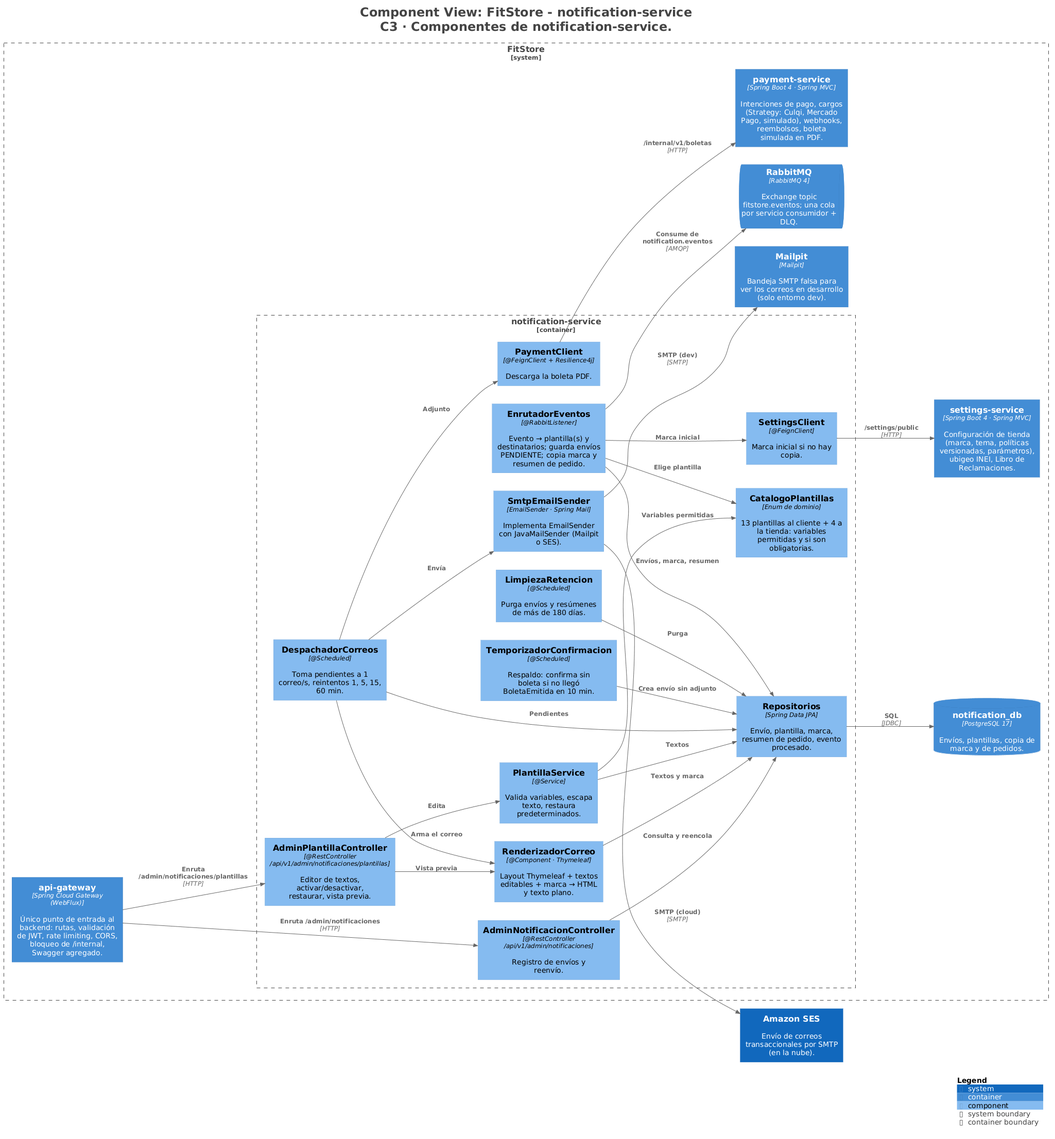
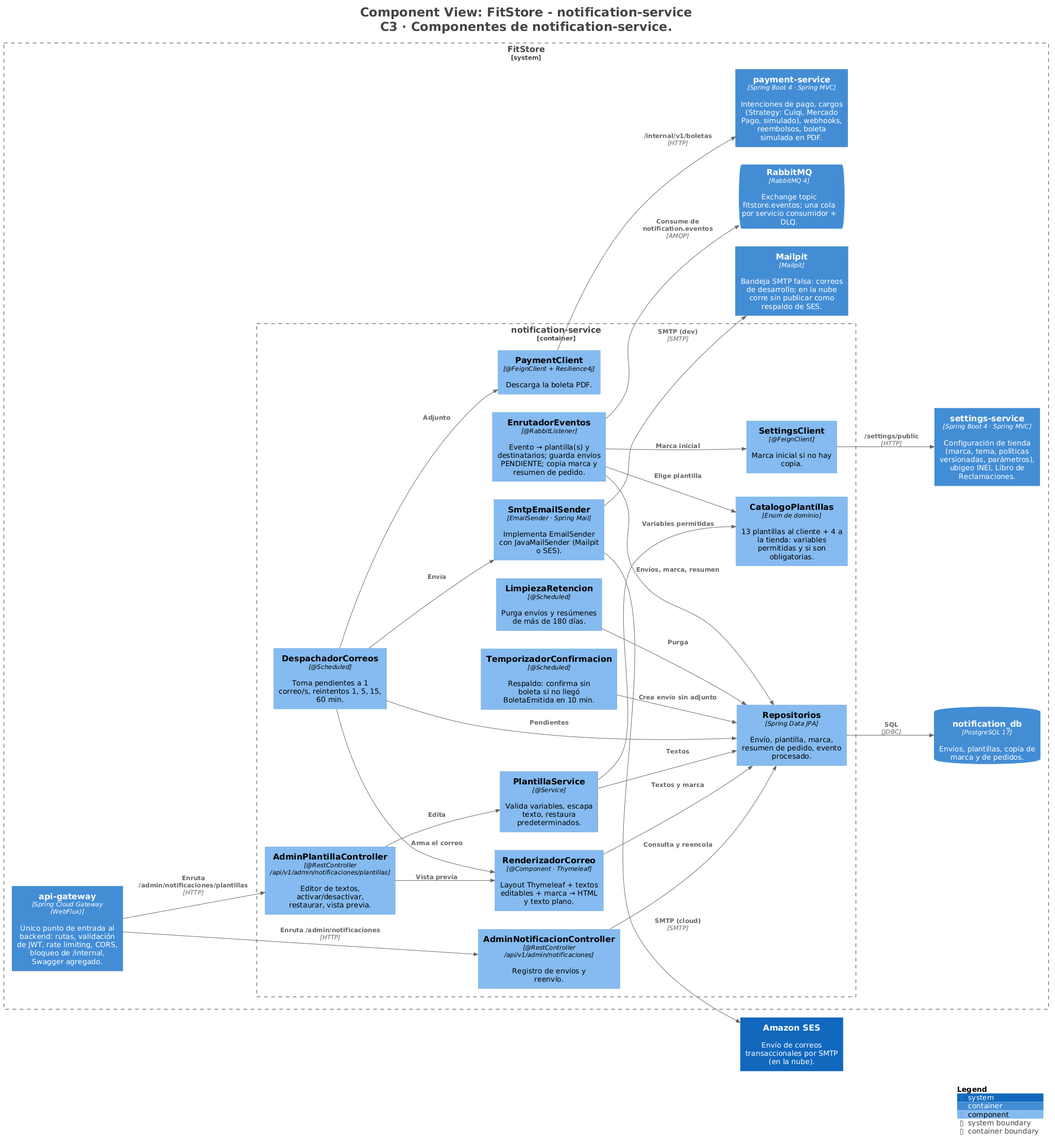
docs: revisión de coherencia (#9)
* docs: revisión de coherencia entre todos los documentos aprobados

- Eventos: PedidoExpirado sin notification (order v8, macro v23, notification v10, SPEC-7 v4); PagoReembolsado también lo consume order (payment v8).
- Menú del backoffice completo y contadores por funcionalidad (SPEC-0b v6 R3, CA-0b-24; SPEC-5 v8).
- Catalog v7: rangos de la configuración de inventario; SPEC-2 v7 sin restos de la configuración en P-2-07.
- Infraestructura: duckdns y Mailpit como respaldo de SES en la nube (micro v5, SPEC-8 v3, ADR-014, C4 de despliegue).
- RF-BO-02 citado en la 0b; RF-BO-03 como alcance futuro (SPEC-4 v8, macro).
- SPEC-6 v5 (orden de rutas), README (14 pantallas clave), c4-sistema v5, bocetos P-0b-02 y P-4-06.

* docs: versión v6 del micro de infraestructura en la revisión de coherencia

diff --git a/docs/specs/img/src/P-4-06-detalle-pedido.html b/docs/specs/img/src/P-4-06-detalle-pedido.html
@@ -12,10 +12,10 @@
 <div class="card col"><b>Historial</b><div class="s">13/10 08:40 · → PENDIENTE_PAGO · Cliente</div><div class="s">13/10 08:41 · Pago rechazado: fondos insuficientes · Sistema</div><div class="s">13/10 08:44 · → PAGADO · Sistema</div></div></div>
 <div class="col" style="width:420px"><div class="card col"><b>Cliente y destinatario</b><span class="s">Luis Rojas · luis@correo.com<br>DNI 44556677 · 987654321<br><u>Ver ficha del cliente</u></span></div>
 <div class="card col"><b>Entrega</b><span class="s">Av. Aviación 1450 · San Borja, Lima, Lima<br>Ref.: edificio azul · 1–2 días hábiles</span><span class="s">Notas: "Tocar el timbre 2 veces"</span></div>
-<div class="card col"><b>Pago</b><span class="s">Culqi · tarjeta · S/ 129.80 · <u>Boleta B001-000045</u></span></div>
+<div class="card col"><b>Pago</b><span class="s">Culqi · tarjeta · S/ 129.80 · <u>Boleta B001-00000045</u></span></div>
 <div class="card col" style="border-style:dashed"><b>Registrar reembolso (diálogo · solo ADMIN · pedido ENTREGADO dentro del plazo)</b>
 <div class="row s"><span>☑</span><span class="sp">Legging Pro Compresión · M · Negro</span><span>cant. [1] de 2</span><span>S/ 59.90</span></div>
 <div class="row"><div class="f sp">Monto: S/ 59.90 (propuesto, editable)</div><div class="f sp">Motivo: Prenda defectuosa ▾</div></div><div class="f">Nota (opcional)</div>
 <div class="row"><span class="s">Puedes devolver hasta S/ 129.80 · plazo hasta 12/11 · el stock no se reingresa solo</span><span class="sp"></span><div class="btn p">Registrar reembolso</div></div></div>
-<div class="card col" style="border-style:dashed"><b>Diálogos</b><span class="s">Comentario opcional al avanzar · Cancelar: motivo obligatorio (300) · Recogido: ☐ Verifiqué el DNI del destinatario</span><div class="err">409: "El pedido cambió; recarga la página"</div></div></div></div></div></div>
+<div class="card col" style="border-style:dashed"><b>Diálogos</b><span class="s">Comentario opcional al avanzar · Cancelar: motivo obligatorio (300) · Recogido: ☐ Verifiqué el DNI del destinatario · No recogido: motivo obligatorio (→ DEVUELTO)</span><div class="err">409: "El pedido cambió; recarga la página"</div></div></div></div></div></div>
 </body></html>

diff --git a/docs/specs/img/src/P-0b-02-backoffice.html b/docs/specs/img/src/P-0b-02-backoffice.html
@@ -4,14 +4,14 @@
  <div class="col pad g" style="width:240px">
   <div class="box b" style="height:48px;background:#fff">LOGO · Tienda</div>
   <div class="p pad" style="border-radius:6px">▣ Dashboard</div>
-  <div>🧾 Pedidos</div><div>🚚 Entregas</div><div>👷 Repartidores</div>
-  <div>👕 Catálogo</div><div>📦 Inventario</div>
-  <div>💳 Pagos <span class="tag">ADMIN</span></div>
+  <div>🧾 Pedidos</div><div>🚚 Entregas</div><div class="s" style="padding-left:22px">Lista · Del día</div><div>👷 Repartidores</div>
+  <div>👕 Catálogo</div><div class="s" style="padding-left:22px">Productos · Categorías · Tallas y colores · Descuentos · Carga masiva</div><div>📦 Inventario</div>
+  <div>💳 Pagos <span class="tag">ADMIN</span></div><div class="s" style="padding-left:22px">Pagos · Reembolsos <span style="background:#b91c1c;color:#fff;border-radius:9px;padding:0 6px">1</span></div>
   <div>🏷 Tarifas y agencias <span class="tag">ADMIN</span></div>
   <div>👥 Clientes</div><div>🛡 Staff <span class="tag">ADMIN</span></div>
-  <div>✉ Notificaciones <span class="tag">ADMIN</span></div>
+  <div>✉ Notificaciones <span class="tag">ADMIN</span></div><div class="s" style="padding-left:22px">Registro · Plantillas</div>
   <div>📕 Reclamos</div>
-  <div>⚙ Configuración de tienda <span class="tag">ADMIN</span></div>
+  <div>⚙ Configuración de tienda <span class="tag">ADMIN</span></div><div class="s" style="padding-left:22px">Tienda · Políticas</div>
   <div class="sp"></div><div class="s">Menú según rol (OPERADOR no ve lo marcado ADMIN)</div>
  </div>
  <div class="col sp">

diff --git a/docs/specs/SPEC-0b-fundaciones-frontend.md b/docs/specs/SPEC-0b-fundaciones-frontend.md
@@ -1,10 +1,11 @@
 # SPEC-0b — Fundaciones del frontend
 
-> Versión: **v5 (aprobado)** — 2026-10-19 · Estados: ✅ decidido · 🟡 propuesto · ❓ abierto
+> Versión: **v6 (aprobado)** — 2026-10-19 · Estados: ✅ decidido · 🟡 propuesto · ❓ abierto
 > **Dueña de:** workspace Angular (`frontend/`), librería `shared`, *shells* (layouts) de storefront y backoffice, rutas y menús generales, tema white-label, carpetas `ui/` de cada app, job de frontend en CI.
 > **Depende de:** 0a (gateway y CI), la etapa de contratos (OpenAPI para generar los clientes) y la etapa de diseño (**sistema de diseño**: los componentes de `ui/` se construyen según él). · **Habilita:** pantallas de las specs 1–8.
 
 **Historial:**
+- v6 (2026-10-19): revisión de coherencia: HU-0b-06 cita RF-BO-02 (tablas con paginación, filtros y orden); menú del backoffice completo (R3: ítems, subítems, roles) y mecanismo de contadores por funcionalidad (`CONTADOR_MENU`), que necesitaba la SPEC-5 para los reembolsos fallidos (CA-0b-24).
 - v5 (2026-10-19): el selector de ubigeo de `ui/` acepta la opción `hasta` (departamento, provincia o distrito), pedida por la SPEC-6 para las tarifas (CA-0b-26).
 - v4 (2026-10-18): **convención de filas de las tablas del backoffice** (R11, CA-0b-28b): el identificador es un enlace real, la fila entera es clicable y la última columna lleva las acciones ("Ver ›", hasta 2 botones o el menú "⋮"). Se aplica a los listados de las specs 1–5 (revisión hecha al cerrar la SPEC-5).
 - v3 (2026-10-18): el pie de la tienda va al final del documento y nunca se ve en la pantalla inicial (boceto P-0b-01 y CA-0b-20b). Resto de la spec aprobado → **spec aprobada**.
@@ -169,12 +170,14 @@ CA-0b-23  Cuando la spec del carrito actualiza el contador compartido
           Entonces el icono del carrito muestra la cantidad sin recargar
 
 CA-0b-24  Cuando abro el backoffice
-          Entonces veo menú lateral por rol, ruta de migas, título de página y menú de usuario (perfil, cambiar contraseña, salir)
+          Entonces veo menú lateral por rol (con los ítems y subítems de la tabla R3), ruta de migas, título de página
+               y menú de usuario (perfil, cambiar contraseña, salir)
+          Y un ítem con contador registrado (p. ej. Reembolsos) muestra su número como insignia
 ```
 
 ### HU-0b-06 — Componentes compartidos documentados
 
-Como desarrollador de una funcionalidad, quiero componentes listos y un catálogo para verlos, para armar pantallas coherentes sin crear los míos. · Cubre: RNF-11, 18, 20 · Pantallas: [P-0b-03](#p-0b-03--estados-comunes), [P-0b-04](#p-0b-04--catálogo-de-componentes)
+Como desarrollador de una funcionalidad, quiero componentes listos y un catálogo para verlos, para armar pantallas coherentes sin crear los míos. · Cubre: RF-BO-02, RNF-11, 18, 20 · Pantallas: [P-0b-03](#p-0b-03--estados-comunes), [P-0b-04](#p-0b-04--catálogo-de-componentes)
 
 ```gherkin
 CA-0b-25  Cuando abro /_ui en desarrollo (en cualquiera de las dos apps)
@@ -266,7 +269,7 @@ No modifica el backend. Decisiones de implementación del frontend:
 |---|---|---|
 | R1 | **Estructura** ✅ | `frontend/projects/{storefront,backoffice}/src/app/{core,layout,ui,features}` y `frontend/projects/shared/src/lib/{api,auth,http,theme,i18n,ubigeo,carrito,models,pipes}`. Componentes *standalone*, señales (`signal`, `computed`) para el estado y control de flujo nuevo (`@if`, `@for`). Sin NgRx (KISS) |
 | R2 | **Rutas registradas** ✅ | Tabla de abajo; cada ruta carga `features/<carpeta>/<carpeta>.routes.ts`, que 0b crea con una página "Próximamente". La spec dueña solo reemplaza el contenido de su carpeta |
-| R3 | **Menú por rol** | Definido en `layout/menu.ts` del backoffice con el rol mínimo de cada ítem (ver P-0b-02) |
+| R3 | **Menú por rol** ✅ | Definido en `layout/menu.ts` del backoffice con el rol mínimo de cada ítem y sus subítems (tabla de abajo y P-0b-02); los ítems pueden mostrar un contador aportado por su funcionalidad |
 | R4 | **Tema** ✅ | `provideAppInitializer` carga `/settings/public` y escribe variables CSS en `:root` (`--fs-color-primario`, `--fs-color-secundario`, `--fs-color-acento`, `--fs-color-fondo`, `--fs-color-texto`, `--fs-fuente`, `--fs-radio`). Tailwind 4 las usa en su `@theme`; en Angular Material 3 se asignan a los tokens del sistema (`--mat-sys-primary`, …). La configuración se guarda en `localStorage` como respaldo (CA-0b-07). La fuente se carga de Google Fonts según `tipografia` |
 | R5 | **Clientes de API** ✅ | `openapi-generator` (`typescript-angular`) → `shared/api/<servicio>/`, **versionados en Git**; el CI regenera y falla si hay diferencias (CA-0b-30). Ninguna spec los edita a mano |
 | R6 | **Sesión** | `SesionStore` en `shared/auth` (señales: cuenta, rol, tipo; el access token solo en memoria). `iniciarSesion()` y `cerrarSesion()` los llaman las pantallas de la spec 1. Guards `autenticadoGuard`, `rolGuard('ADMIN')` |
@@ -275,6 +278,26 @@ No modifica el backend. Decisiones de implementación del frontend:
 | R9 | **Pruebas unitarias** ✅ | El *runner* por defecto del CLI de Angular 22 (Vitest) con Angular Testing Library; se verifica al crear el workspace |
 | R10 | **Accesibilidad** | Componentes de `ui/` con etiquetas, foco visible y contraste del tema (RNF-19 advierte en settings); objetivo Lighthouse ≥ 85 se mide en la spec 8 |
 | R11 | **Filas de las tablas del backoffice** ✅ | Convención única de la tabla paginada de `ui/` (`FsTabla` con `filaEnlace` y `acciones`): (1) el **identificador** de la fila (código, nombre o número) es un `<a routerLink>`; (2) **toda la fila** es clicable, con *hover*, y navega a lo mismo; (3) **última columna de acciones**, alineada a la derecha: "Ver ›" si la fila solo tiene detalle, **1 o 2 botones** si tiene acciones propias, o el menú **"⋮"** (`mat-menu`) si son 3 o más. Los clics en acciones no se propagan a la fila. Si la entidad no tiene página de detalle, el enlace abre su diálogo de edición. Cada spec indica en la pantalla qué abre el enlace y qué acciones lleva la fila |
+
+**Menú del backoffice (R3):**
+
+| Ítem | Subítems (ruta) | Rol mínimo | Contador |
+|---|---|---|---|
+| Dashboard | `/` | OPERADOR | — |
+| Pedidos | `/pedidos` | OPERADOR | — |
+| Entregas | Lista (`/entregas`), Del día (`/entregas/dia`) | OPERADOR | — |
+| Repartidores | `/repartidores` | OPERADOR | — |
+| Catálogo | Productos (`/catalogo/productos`, OPERADOR en lectura), Categorías, Tallas y colores, Descuentos, Carga masiva (ADMIN) | OPERADOR | — |
+| Inventario | `/inventario` | OPERADOR | — |
+| Pagos | Pagos (`/pagos`), Reembolsos (`/reembolsos`) | ADMIN | Reembolsos fallidos (SPEC-5) |
+| Tarifas y agencias | Tarifas (`/tarifas`), Agencias (`/agencias`) | ADMIN | — |
+| Clientes | `/clientes` | OPERADOR | — |
+| Staff | `/staff` | ADMIN | — |
+| Notificaciones | Registro (`/notificaciones`), Plantillas (`/notificaciones/plantillas`) | ADMIN | — |
+| Reclamos | `/reclamos` | OPERADOR | — |
+| Configuración de tienda | Tienda (`/configuracion`), Políticas (`/configuracion/politicas`) | ADMIN | — |
+
+Los contadores los aporta cada funcionalidad sin tocar el *shell*: registra un proveedor `CONTADOR_MENU` (*multi provider*) con la clave del ítem y una función que devuelve el número; el *shell* lo muestra como insignia y lo refresca al navegar.
 
 **Rutas registradas (R2):**
 

diff --git a/docs/specs/SPEC-7-notificaciones.md b/docs/specs/SPEC-7-notificaciones.md
@@ -1,11 +1,12 @@
 # SPEC-7 — Notificaciones
 
-> Versión: **v3 (aprobado)** — 2026-10-19 · Estados: ✅ decidido · 🟡 propuesto · ❓ abierto
+> Versión: **v4 (aprobado)** — 2026-10-19 · Estados: ✅ decidido · 🟡 propuesto · ❓ abierto
 > **Dueña de:** `backend/notification-service` (enrutamiento de eventos, plantillas, envío, registro) · backoffice: `features/notificaciones`.
 > **Depende de:** 0a, 0b, 1 (sesión de staff) · consume los eventos de auth, order, payment, delivery, catalog y settings (AsyncAPI) y usa `/internal/v1/boletas/{numero}` de payment · **Habilita:** 8 (demo con todos los correos en Mailpit y SES).
 > **Contratos:** `contracts/openapi/notification-service.yaml`; no publica eventos; consume los de la sección 6 del micro.
 
 **Historial:**
+- v4 (2026-10-19): revisión de coherencia: CA-7-03 aclara que `PedidoExpirado` y `PagoRechazado` no se escuchan (micro v10).
 - v3 (2026-10-19): los datos de demostración también se cargan en la nube con el perfil `demo` (SPEC-8 I7), con UUID fijos compartidos entre servicios (`docs/demo/ids-demo.md`).
 - v2 (2026-10-19): N7 ✅ "Enviar prueba a mi correo" (CA-7-30; micro v9) → **spec aprobada**.
 - v1 (2026-10-19): borrador inicial.
@@ -50,9 +51,9 @@ CA-7-01  Cuando llega cada evento de la tabla 4.1 del micro
 CA-7-02  Dado que el mismo evento llega dos veces
          Entonces se crea un solo envío
 
-CA-7-03  Cuando llegan PedidoCreado, PedidoPagado, PedidoExpirado, PagoRechazado o EntregaActualizada
-         en PENDIENTE_* o ASIGNADA
+CA-7-03  Cuando llegan PedidoCreado, PedidoPagado o EntregaActualizada en PENDIENTE_* o ASIGNADA
          Entonces no se envía ningún correo (PedidoCreado guarda la copia del pedido; PedidoPagado inicia el respaldo de la boleta)
+         Y PedidoExpirado y PagoRechazado ni siquiera se escuchan (la cola no se enlaza a sus routing keys)
 
 CA-7-04  Dado que el admin desactivó una plantilla opcional (p. ej. la bienvenida)
          Entonces su evento no genera envío
@@ -234,7 +235,7 @@ Todo según el micro de notification. Decisiones de implementación de esta spec
 | N5 | **Reenvío con textos actuales** ✅ | Reenviar vuelve a renderizar con la marca y los textos vigentes (no se guarda el HTML enviado, para no almacenar datos personales de más) |
 | N6 | **Ritmo por entorno** ✅ | `ritmo-por-segundo`: 1 en `cloud` (límite de SES en sandbox) y 10 en `dev` (Mailpit no tiene límite), para que la demo local sea ágil |
 | N7 | **Enviar prueba a mi correo** ✅ | Botón en el editor que envía el correo con los textos actuales y datos de ejemplo al correo del admin conectado (lo toma del token), con "[Prueba]" en el asunto; respeta el ritmo y queda en el registro con referencia `PRUEBA`. Endpoint `POST /admin/notificaciones/plantillas/{codigo}/prueba` (micro v9). En la nube, con SES en sandbox, el correo del admin debe estar verificado (R14) |
-| N8 | **Corrección del micro** ✅ | El micro dice "definición de las 17" plantillas en 10.1; con C14 son **18**. Se corrige en esta spec (micro v8) |
+| N8 | **Corrección del micro** ✅ | El micro decía "definición de las 17" plantillas en 10.1; con C14 son **18**. Corregido en el micro v8 |
 
 ## 6. Datos
 

diff --git a/docs/specs/SPEC-8-integracion-nube-demo.md b/docs/specs/SPEC-8-integracion-nube-demo.md
@@ -1,11 +1,12 @@
 # SPEC-8 — Integración, nube y demo
 
-> Versión: **v2 (aprobado)** — 2026-10-19 · Estados: ✅ decidido · 🟡 propuesto · ❓ abierto
+> Versión: **v3 (aprobado)** — 2026-10-19 · Estados: ✅ decidido · 🟡 propuesto · ❓ abierto
 > **Dueña de:** dashboard del backoffice (`features/dashboard`), pruebas de punta a punta (`frontend/e2e/`), despliegue en la nube (`infra/docker-compose.cloud.yml`, `infra/caddy/`, `infra/scripts/`, `.github/workflows/deploy.yml`), guion de la demo (`docs/demo/`).
 > **Depende de:** 1 a 7 (todas integradas en `dev`) · usa los endpoints de resumen de order, catalog, delivery y settings · **Habilita:** la entrega final (demo en la nube, video y exposición).
 > **Contratos:** no crea endpoints; consume los ya definidos (sección 4).
 
 **Historial:**
+- v3 (2026-10-19): revisión de coherencia: Mailpit corre en la nube sin publicar como respaldo de SES (CA-8-15, CA-8-30; micro de infraestructura v6 con `duckdns` y Mailpit en la tabla de memoria).
 - v2 (2026-10-19): I6 ✅ Garage en la VM (adaptador Azure Blob diferido); I7 ✅ la nube carga **todos** los datos de demostración, incluidos clientes y pedidos, con la contraseña de las cuentas demo desde un secreto (CA-8-31) → **spec aprobada**. Ajustes propagados: SPEC-0a v5, SPEC-1 v5, SPEC-2 a SPEC-7 (nota del perfil `demo`), micro de infraestructura v5, stack v3, macro v22 y ADR-013.
 - v1 (2026-10-19): borrador inicial.
 
@@ -107,7 +108,7 @@ CA-8-14  Cuando levanto docker-compose.cloud.yml en la VM
          Entonces https://tienda.<sub>.duckdns.org muestra el storefront y https://admin.<sub>.duckdns.org el backoffice,
               ambos con certificado válido de Let's Encrypt gestionado por Caddy, y /api de cada dominio llega al gateway
 
-CA-8-15  Solo Caddy publica puertos (80 y 443); Eureka, RabbitMQ, Jaeger, Garage-admin y las bases no son accesibles
+CA-8-15  Solo Caddy publica puertos (80 y 443); Eureka, RabbitMQ, Jaeger, Mailpit, Garage-admin y las bases no son accesibles
          desde internet (verificado con un escaneo de puertos desde fuera)
 
 CA-8-16  La suma de mem_limit de los contenedores es ≤ 6,5 GB y todo queda "healthy" en la VM de 8 GB;
@@ -179,7 +180,7 @@ CA-8-29  docs/demo/guion.md lista, con tiempos, el recorrido: landing y catálog
          (Swagger con contraseña, Postman contra la nube, Jaeger, GitHub Actions)
 
 CA-8-30  El guion incluye la lista de verificación previa (VM encendida, certificados, correos verificados, datos de demo,
-         saldo de la tarjeta de prueba) y un plan B por cada dependencia externa (sandbox caído → simulado; SES → Mailpit por túnel)
+         saldo de la tarjeta de prueba) y un plan B por cada dependencia externa (sandbox caído → simulado; SES caído → SMTP_HOST=mailpit y los correos se ven por túnel)
 
 CA-8-31  Dado el perfil demo en la nube
          Entonces existen los datos de demostración de todos los servicios (clientes, pedidos, pagos, entregas, correos),

diff --git a/docs/specs/SPEC-2-catalogo-inventario.md b/docs/specs/SPEC-2-catalogo-inventario.md
@@ -1,11 +1,12 @@
 # SPEC-2 — Catálogo e inventario
 
-> Versión: **v6 (aprobado)** — 2026-10-19 · Estados: ✅ decidido · 🟡 propuesto · ❓ abierto
+> Versión: **v7 (aprobado)** — 2026-10-19 · Estados: ✅ decidido · 🟡 propuesto · ❓ abierto
 > **Dueña de:** `backend/catalog-service` (módulos catálogo e inventario) · tienda: `features/catalogo` · backoffice: `features/catalogo`, `features/inventario`.
 > **Depende de:** 0a, 0b, 1 (sesión de staff) · **Habilita:** 3 (destacados de la landing), 4 (cotización y reserva), 8.
 > **Contratos:** `contracts/openapi/catalog-service.yaml` (incluye `/internal/v1/inventario/reservas`); usa el contrato de order (`POST /carrito/items`); eventos `StockBajo`, `StockNoConfirmado` (publica) y `PedidoPagado`, `PedidoCancelado`, `PedidoExpirado` (consume).
 
 **Historial:**
+- v7 (2026-10-19): revisión de coherencia: P-2-07 ya no menciona la configuración de inventario (se movió a P-3-04 en la v4).
 - v6 (2026-10-19): los datos de demostración también se cargan en la nube con el perfil `demo` (SPEC-8 I7), con UUID fijos compartidos entre servicios (`docs/demo/ids-demo.md`).
 - v5 (2026-10-18): convención de tablas de la SPEC-0b (R11) aplicada a P-2-03, P-2-07, P-2-08 y P-2-09 (y señalada como no aplicable en P-2-05 y P-2-06); P-2-04 se abre en solo lectura para OPERADOR (antes la ruta era solo ADMIN, aunque P-2-03 le permitía ver los productos). Bocetos actualizados.
 - v4 (2026-10-18): por decisión de la SPEC-3 (S2), el stock mínimo por defecto y el margen de reserva se editan en Configuración de tienda (P-3-04, pestaña Parámetros); se quita `DialogoConfiguracionInventario` de P-2-07. El endpoint sigue siendo de esta spec.
@@ -383,12 +384,12 @@ CA-2-57  Dado Redis caído
 
 ### P-2-07 — Inventario
 
-- **Ruta / proyecto:** `/inventario` · backoffice · OPERADOR y ADMIN (configuración: solo ADMIN).
+- **Ruta / proyecto:** `/inventario` · backoffice · OPERADOR y ADMIN.
 - **Boceto:** ![P-2-07](img/P-2-07-inventario.png)
 - **Diseño de alta fidelidad:** 🕓 deriva del sistema de diseño (patrón "tabla").
 - **Componentes:** `InventarioPage` (tabla con filas resaltadas por stock bajo y agotado), `DialogoEntrada` (varias líneas), `DialogoAjuste`. La configuración de inventario de la tienda se edita en P-3-04 (SPEC-3).
 - **Tabla (0b R11):** el **SKU** abre el kardex (`/inventario/:varianteId`, P-2-08); acciones: "Kardex ›" y "Mínimo" (diálogo para el umbral propio del SKU, CA-2-43).
-- **Endpoints:** `GET /admin/inventario`, `POST /admin/inventario/entradas|ajustes`, `PATCH /admin/inventario/{varianteId}/minimo`, `GET/PUT /admin/inventario/configuracion`.
+- **Endpoints:** `GET /admin/inventario`, `POST /admin/inventario/entradas|ajustes`, `PATCH /admin/inventario/{varianteId}/minimo`. (`GET/PUT /admin/inventario/configuracion` lo implementa esta spec, pero lo usa P-3-04 de la SPEC-3.)
 
 ### P-2-09 — Carga masiva
 

diff --git a/docs/analisis/micro/order-service.md b/docs/analisis/micro/order-service.md
@@ -1,9 +1,10 @@
 # FitStore — Análisis micro: `order-service`
 
-> Versión: **v7 (aprobado)** — 2026-10-19. Fuente: [`01-analisis-macro.md`](../01-analisis-macro.md) v12.
+> Versión: **v8 (aprobado)** — 2026-10-19. Fuente: [`01-analisis-macro.md`](../01-analisis-macro.md) v12.
 > Estados: ✅ decidido · 🟡 propuesto · ❓ abierto · 🕓 diferido
 
 **Historial:**
+- v8 (2026-10-19): revisión de coherencia: `PedidoExpirado` no lo consume notification (no hay correo de pedido expirado).
 - v7 (2026-10-19): por SPEC-6: estado final **`DEVUELTO`** (desde `ENVIADO` con `EntregaActualizada` devuelta, o desde `LISTO_RECOJO` cuando el operador marca "No recogido"); el reembolso postventa también se permite en `DEVUELTO`, sin plazo, con motivo `NO_ENTREGADO`.
 - v6 (2026-10-18): **reembolso postventa** (4.8): el ADMIN registra un reembolso total o parcial de un pedido `ENTREGADO` dentro del plazo de settings; tabla `pedido_reembolso`, campo `monto_reembolsado`, evento `ReembolsoSolicitado`, consume `PagoReembolsado`. Decidido en la SPEC-5.
 - v5 (2026-10-18): desde la SPEC-4: los pedidos de un cliente usan `GET /admin/pedidos?clienteId=` (se quita `/admin/clientes/{clienteId}/pedidos`, O3); las ventas del resumen se cuentan por la fecha del paso a `PAGADO` y sin los cancelados, con índice `pedido_historial (estado_nuevo, creado_en)` (O6).
@@ -351,7 +352,7 @@ Exchange `fitstore.eventos` (topic), sobre común, outbox e idempotencia (ADR-00
 | `PedidoCreado` | `order.pedido.creado` | `pedidoId`, `codigo`, `clienteId`, destinatario, modalidad, dirección, `items[]`, `subtotal`, `descuentoTotal`, `costoEnvio`, `total`, `expiraEn` | payment (intención de pago), notification |
 | `PedidoPagado` | `order.pedido.pagado` | `pedidoId`, `codigo`, `items[{varianteId, cantidad}]` | catalog (confirmar reserva), notification |
 | `PedidoCancelado` | `order.pedido.cancelado` | `pedidoId`, `codigo`, `fuePagado`, `motivo`, `actor`, `items[]` | catalog, payment (reembolso si fue pagado), notification |
-| `PedidoExpirado` | `order.pedido.expirado` | `pedidoId`, `codigo` | catalog, payment (anular intención), notification |
+| `PedidoExpirado` | `order.pedido.expirado` | `pedidoId`, `codigo` | catalog, payment (anular intención) |
 | `PagoNoAplicable` | `order.pago.no-aplicable` | `pedidoId`, `pagoId`, `motivo` | payment (reembolso automático) |
 | `PedidoListoDespacho` | `order.pedido.listo-despacho` | `pedidoId`, `codigo`, modalidad, destinatario, dirección, agencia, resumen de ítems | delivery (crear entrega) |
 | `ReembolsoSolicitado` ✅ **nuevo** | `order.reembolso.solicitado` | `pedidoId`, `codigo`, `solicitudId` (id de `pedido_reembolso`, clave de idempotencia), `monto`, `motivo` | payment (ejecuta el reembolso) |

diff --git a/docs/specs/SPEC-5-pagos.md b/docs/specs/SPEC-5-pagos.md
@@ -1,11 +1,12 @@
 # SPEC-5 — Pagos
 
-> Versión: **v7 (aprobado)** — 2026-10-19 · Estados: ✅ decidido · 🟡 propuesto · ❓ abierto
+> Versión: **v8 (aprobado)** — 2026-10-19 · Estados: ✅ decidido · 🟡 propuesto · ❓ abierto
 > **Dueña de:** `backend/payment-service` (intención, cobros, webhooks, reembolsos, boleta) · tienda: `features/pago` · backoffice: `features/pagos`.
 > **Depende de:** 0a, 0b, 1 (sesión) · usa el contrato de eventos de order (`PedidoCreado`, `PedidoCancelado`, `PedidoExpirado`, `PagoNoAplicable`, `ReembolsoSolicitado`) y `GET /settings/public` · **Habilita:** 4 (el pedido pasa a `PAGADO`, guarda la boleta y registra lo reembolsado), 7 (correos de pago, reembolso y alerta con la boleta adjunta), 8 (demo de punta a punta).
 > **Contratos:** `contracts/openapi/payment-service.yaml`; eventos que publica `PagoConfirmado`, `PagoRechazado`, `BoletaEmitida`, `PagoReembolsado`, `ReembolsoFallido`.
 
 **Historial:**
+- v8 (2026-10-19): revisión de coherencia: el contador de reembolsos fallidos se registra con `CONTADOR_MENU` de la SPEC-0b (R3), en lugar de que el *shell* lo consulte por su cuenta.
 - v7 (2026-10-19): los datos de demostración también se cargan en la nube con el perfil `demo` (SPEC-8 I7), con UUID fijos compartidos entre servicios (`docs/demo/ids-demo.md`).
 - v6 (2026-10-19): el contador de reembolsos fallidos del menú usa `size=1` y lee el total (Spring Data no acepta `size=0`), corregido al redactar la SPEC-8.
 - v5 (2026-10-19): el reembolso postventa también aplica a pedidos devueltos a la tienda (SPEC-6); sin cambios en el flujo de payment.
@@ -302,7 +303,7 @@ CA-5-38  Cuando lo marco como resuelto manualmente (p. ej. devolví por transfer
 - **Ruta / proyecto:** `/reembolsos` · backoffice · ADMIN.
 - **Boceto:** ![P-5-05](img/P-5-05-reembolsos.png)
 - **Diseño de alta fidelidad:** 🕓 deriva del sistema de diseño.
-- **Componentes:** `ReembolsosPage`, `DialogoResolverManual` (nota obligatoria, hasta 500 caracteres), contador de fallidos en el menú (lo consulta el *shell* con `GET /admin/reembolsos?estado=FALLIDO&size=1`, leyendo el total).
+- **Componentes:** `ReembolsosPage`, `DialogoResolverManual` (nota obligatoria, hasta 500 caracteres), contador de fallidos en el menú: la funcionalidad `pagos` registra un `CONTADOR_MENU` (SPEC-0b R3) que llama a `GET /admin/reembolsos?estado=FALLIDO&size=1` y lee el total.
 - **Tabla (0b R11):** el **código del pedido** abre el detalle del pago al que pertenece el reembolso (`/pagos/:id`); acciones (solo en FALLIDO): "Reintentar" y "Resolver manualmente".
 - **Endpoints:** `GET /admin/reembolsos`, `POST /admin/reembolsos/{id}/reintentar`, `PATCH /admin/reembolsos/{id}/resuelto-manual`.
 

diff --git a/docs/analisis/micro/infraestructura.md b/docs/analisis/micro/infraestructura.md
@@ -1,10 +1,11 @@
 # FitStore — Análisis micro: infraestructura (`config-server`, `discovery-server`, `api-gateway`) y piezas comunes
 
-> Versión: **v5 (aprobado)** — 2026-10-19. Fuente: [`01-analisis-macro.md`](../01-analisis-macro.md) v16.
+> Versión: **v6 (aprobado)** — 2026-10-19. Fuente: [`01-analisis-macro.md`](../01-analisis-macro.md) v16.
 > Estados: ✅ decidido · propuesto · ❓ abierto · 🕓 diferido
 > Ficha corta: estos servicios no tienen dominio de negocio, así que la estructura difiere de la plantilla.
 
 **Historial:**
+- v6 (2026-10-19): revisión de coherencia: contenedor `duckdns` y Mailpit como respaldo de SES en `cloud` en la tabla de memoria y en los archivos de compose (SPEC-8).
 - v5 (2026-10-19): `AzureBlobFileStorage` diferido (en la nube se usa Garage en la VM, SPEC-8 I6); se quita la ruta `/api/v1/admin/clientes/*/pedidos` del gateway (los pedidos de un cliente usan `GET /admin/pedidos?clienteId=`, SPEC-4 O3); detectado al redactar la SPEC-8.
 - v4 (2026-10-18): sección 10 aprobada → **documento completo aprobado**.
 - v3 (2026-10-18): sección 10 (diseño técnico) redactada: C3, código de las partes críticas, paquetes, dependencias, configuración e infraestructura.
@@ -127,7 +128,8 @@ Swagger UI en `/swagger-ui` con un selector por servicio (cada servicio expone s
 | rabbitmq | `rabbitmq:4-management` | 384 MB |
 | garage | `dxflrs/garage` | 96 MB |
 | jaeger | `jaegertracing/jaeger` (all-in-one, en memoria) | 256 MB |
-| mailpit | `axllent/mailpit` (solo `dev`) | 64 MB |
+| mailpit | `axllent/mailpit` (bandeja de `dev`; en `cloud` corre sin publicar como respaldo de SES) | 64 MB |
+| duckdns | `lscr.io/linuxserver/duckdns` (solo `cloud`: actualiza la IP pública cada 5 min) | 32 MB |
 | caddy | `caddy:2` | 64 MB |
 | config, discovery, gateway | imágenes propias (Java 21) | 256 MB c/u |
 | 7 servicios de negocio | imágenes propias (Java 21, `-Xmx192m`) | 320 MB c/u |
@@ -143,7 +145,7 @@ Las versiones exactas de las imágenes se fijan al crear el repositorio (no `lat
 
 - `infra/docker-compose.yml`: base común.
 - `infra/docker-compose.dev.yml`: Mailpit, puertos publicados en `localhost` para depurar, perfil `dev`.
-- `infra/docker-compose.cloud.yml`: Caddy con dominios reales, SES, perfil `cloud`, sin puertos internos publicados.
+- `infra/docker-compose.cloud.yml`: Caddy con dominios reales, SES, DuckDNS, perfil `cloud` (y `demo`), sin puertos internos publicados.
 - `infra/.env.example`: todas las variables necesarias, sin valores reales.
 - `infra/postgres/init.sql`: crea las 7 bases y sus usuarios.
 

diff --git a/docs/specs/SPEC-4-pedidos.md b/docs/specs/SPEC-4-pedidos.md
@@ -1,11 +1,12 @@
 # SPEC-4 — Pedidos
 
-> Versión: **v7 (aprobado)** — 2026-10-19 · Estados: ✅ decidido · 🟡 propuesto · ❓ abierto
+> Versión: **v8 (aprobado)** — 2026-10-19 · Estados: ✅ decidido · 🟡 propuesto · ❓ abierto
 > **Dueña de:** `backend/order-service` (carrito, checkout, pedidos, saga) · tienda: `features/carrito`, `features/checkout`, `features/mis-pedidos` · backoffice: `features/pedidos`.
 > **Depende de:** 0a, 0b, 1 (sesión y direcciones) · usa los contratos de catalog (cotizar, reservar), auth (cliente y dirección), delivery (opciones y cotización de envío) y settings (parámetros y ubigeo) · **Habilita:** 5 (pago del pedido), 6 (entrega desde `PedidoListoDespacho`), 7 (correos del pedido), 8 (dashboard y E2E).
 > **Contratos:** `contracts/openapi/order-service.yaml`; eventos que publica `PedidoCreado`, `PedidoPagado`, `PedidoCancelado`, `PedidoExpirado`, `PagoNoAplicable`, `PedidoListoDespacho`, `PedidoListoRecojo`, `PedidoRecogido`, `ReembolsoSolicitado`; consume `PagoConfirmado`, `PagoRechazado`, `BoletaEmitida`, `PagoReembolsado`, `EntregaActualizada`.
 
 **Historial:**
+- v8 (2026-10-19): revisión de coherencia: "No incluye" deja explícito que exportar pedidos a CSV (RF-BO-03, C) es alcance futuro.
 - v7 (2026-10-19): los datos de demostración también se cargan en la nube con el perfil `demo` (SPEC-8 I7), con UUID fijos compartidos entre servicios (`docs/demo/ids-demo.md`).
 - v6 (2026-10-19): por la SPEC-6, estado final **DEVUELTO**: desde ENVIADO cuando delivery devuelve la entrega a la tienda (CA-4-45) o desde LISTO_RECOJO cuando nadie recoge el pedido (CA-4-60); el reembolso postventa se permite en DEVUELTO sin plazo (CA-4-54, 57); etapa "Devuelto a la tienda" en el seguimiento (O9). Micro de order v7.
 - v5 (2026-10-18): P-4-05 y P-4-06 indican qué abre el enlace de cada fila y sus acciones, según la convención de tablas de la SPEC-0b (R11). Boceto P-4-05 actualizado.
@@ -33,6 +34,7 @@ Al cerrar esta spec, el cliente **arma su carrito** (con o sin sesión), ve sus 
 - Crear y avanzar la entrega (repartidor, agencia, intentos) → spec 6 (aquí se publica `PedidoListoDespacho` y se consume `EntregaActualizada`).
 - Correos del pedido → spec 7.
 - Pantalla del dashboard → spec 8 (aquí solo su endpoint de ventas).
+- Exportar pedidos a CSV (RF-BO-03, prioridad C) → alcance futuro.
 - Cotización y reserva de stock → spec 2 (aquí se llaman por contrato). Formulario de direcciones → spec 1.
 
 ## 2. Referencias

diff --git a/docs/analisis/micro/catalog-service.md b/docs/analisis/micro/catalog-service.md
@@ -1,9 +1,10 @@
 # FitStore — Análisis micro: `catalog-service`
 
-> Versión: **v6 (aprobado)** — 2026-10-16. Fuente: [`01-analisis-macro.md`](../01-analisis-macro.md) v11.
+> Versión: **v7 (aprobado)** — 2026-10-19. Fuente: [`01-analisis-macro.md`](../01-analisis-macro.md) v11.
 > Estados: ✅ decidido · 🟡 propuesto · ❓ abierto · 🕓 diferido
 
 **Historial:**
+- v7 (2026-10-19): revisión de coherencia: rangos de la configuración de inventario (stock mínimo por defecto 0–999, margen de reserva 0–30 min, como valida la SPEC-3 CA-3-38); se edita en la pestaña Parámetros de la configuración de tienda (SPEC-3 S2). Las dos entradas sin número de versión del 2026-10-18 corresponden a cambios de la SPEC-2 sobre la v6.
 - (2026-10-18, por SPEC-2) Cada imagen pertenece a un color (D3) y publicar exige una imagen por color activo (invariante 4); color maestro "Variado"; carga masiva de productos por CSV/XLSX (4.4.1); ejemplo de categorías renombrado.
 - v6 (2026-10-18): sección 10 aprobada → **documento completo aprobado**.
 - (2026-10-18) `ExpiradorReservas` pasa a llamarse **`LiberadorReservasVencidas`** y se documenta como red de seguridad del evento `PedidoExpirado` (4.7, 10.1, 10.3).
@@ -205,7 +206,7 @@ Extensiones: `unaccent` y `pg_trgm` (búsqueda sin tildes y por similitud).
 
 `movimiento_stock.tipo` ∈ `ENTRADA`, `AJUSTE` (+/−), `VENTA` (al confirmar el pago), `REINGRESO` (cancelación de un pedido pagado). Reservar y liberar no cambian `fisico`, por eso no generan movimiento (quedan en `reserva`).
 
-**Comunes:** `outbox_evento` (igual que auth) y `evento_procesado` (`evento_id` PK, `procesado_en`) para consumidores idempotentes (ADR-009). `configuracion_inventario` (fila única): `stock_minimo_por_defecto` (semilla 5) y `margen_reserva_minutos` (ver 4.6). Se edita desde el backoffice en la pestaña Parámetros de la configuración de la tienda (P-3-04, SPEC-3), pero el dato lo guarda catalog, que es quien lo usa.
+**Comunes:** `outbox_evento` (igual que auth) y `evento_procesado` (`evento_id` PK, `procesado_en`) para consumidores idempotentes (ADR-009). `configuracion_inventario` (fila única): `stock_minimo_por_defecto` (semilla 5, de 0 a 999) y `margen_reserva_minutos` (semilla 5, de 0 a 30; ver 4.6). Se edita desde el backoffice en la pestaña Parámetros de la configuración de la tienda (P-3-04, SPEC-3), pero el dato lo guarda catalog, que es quien lo usa.
 
 ### 3.2 Redis (prefijo `catalog:`)
 
